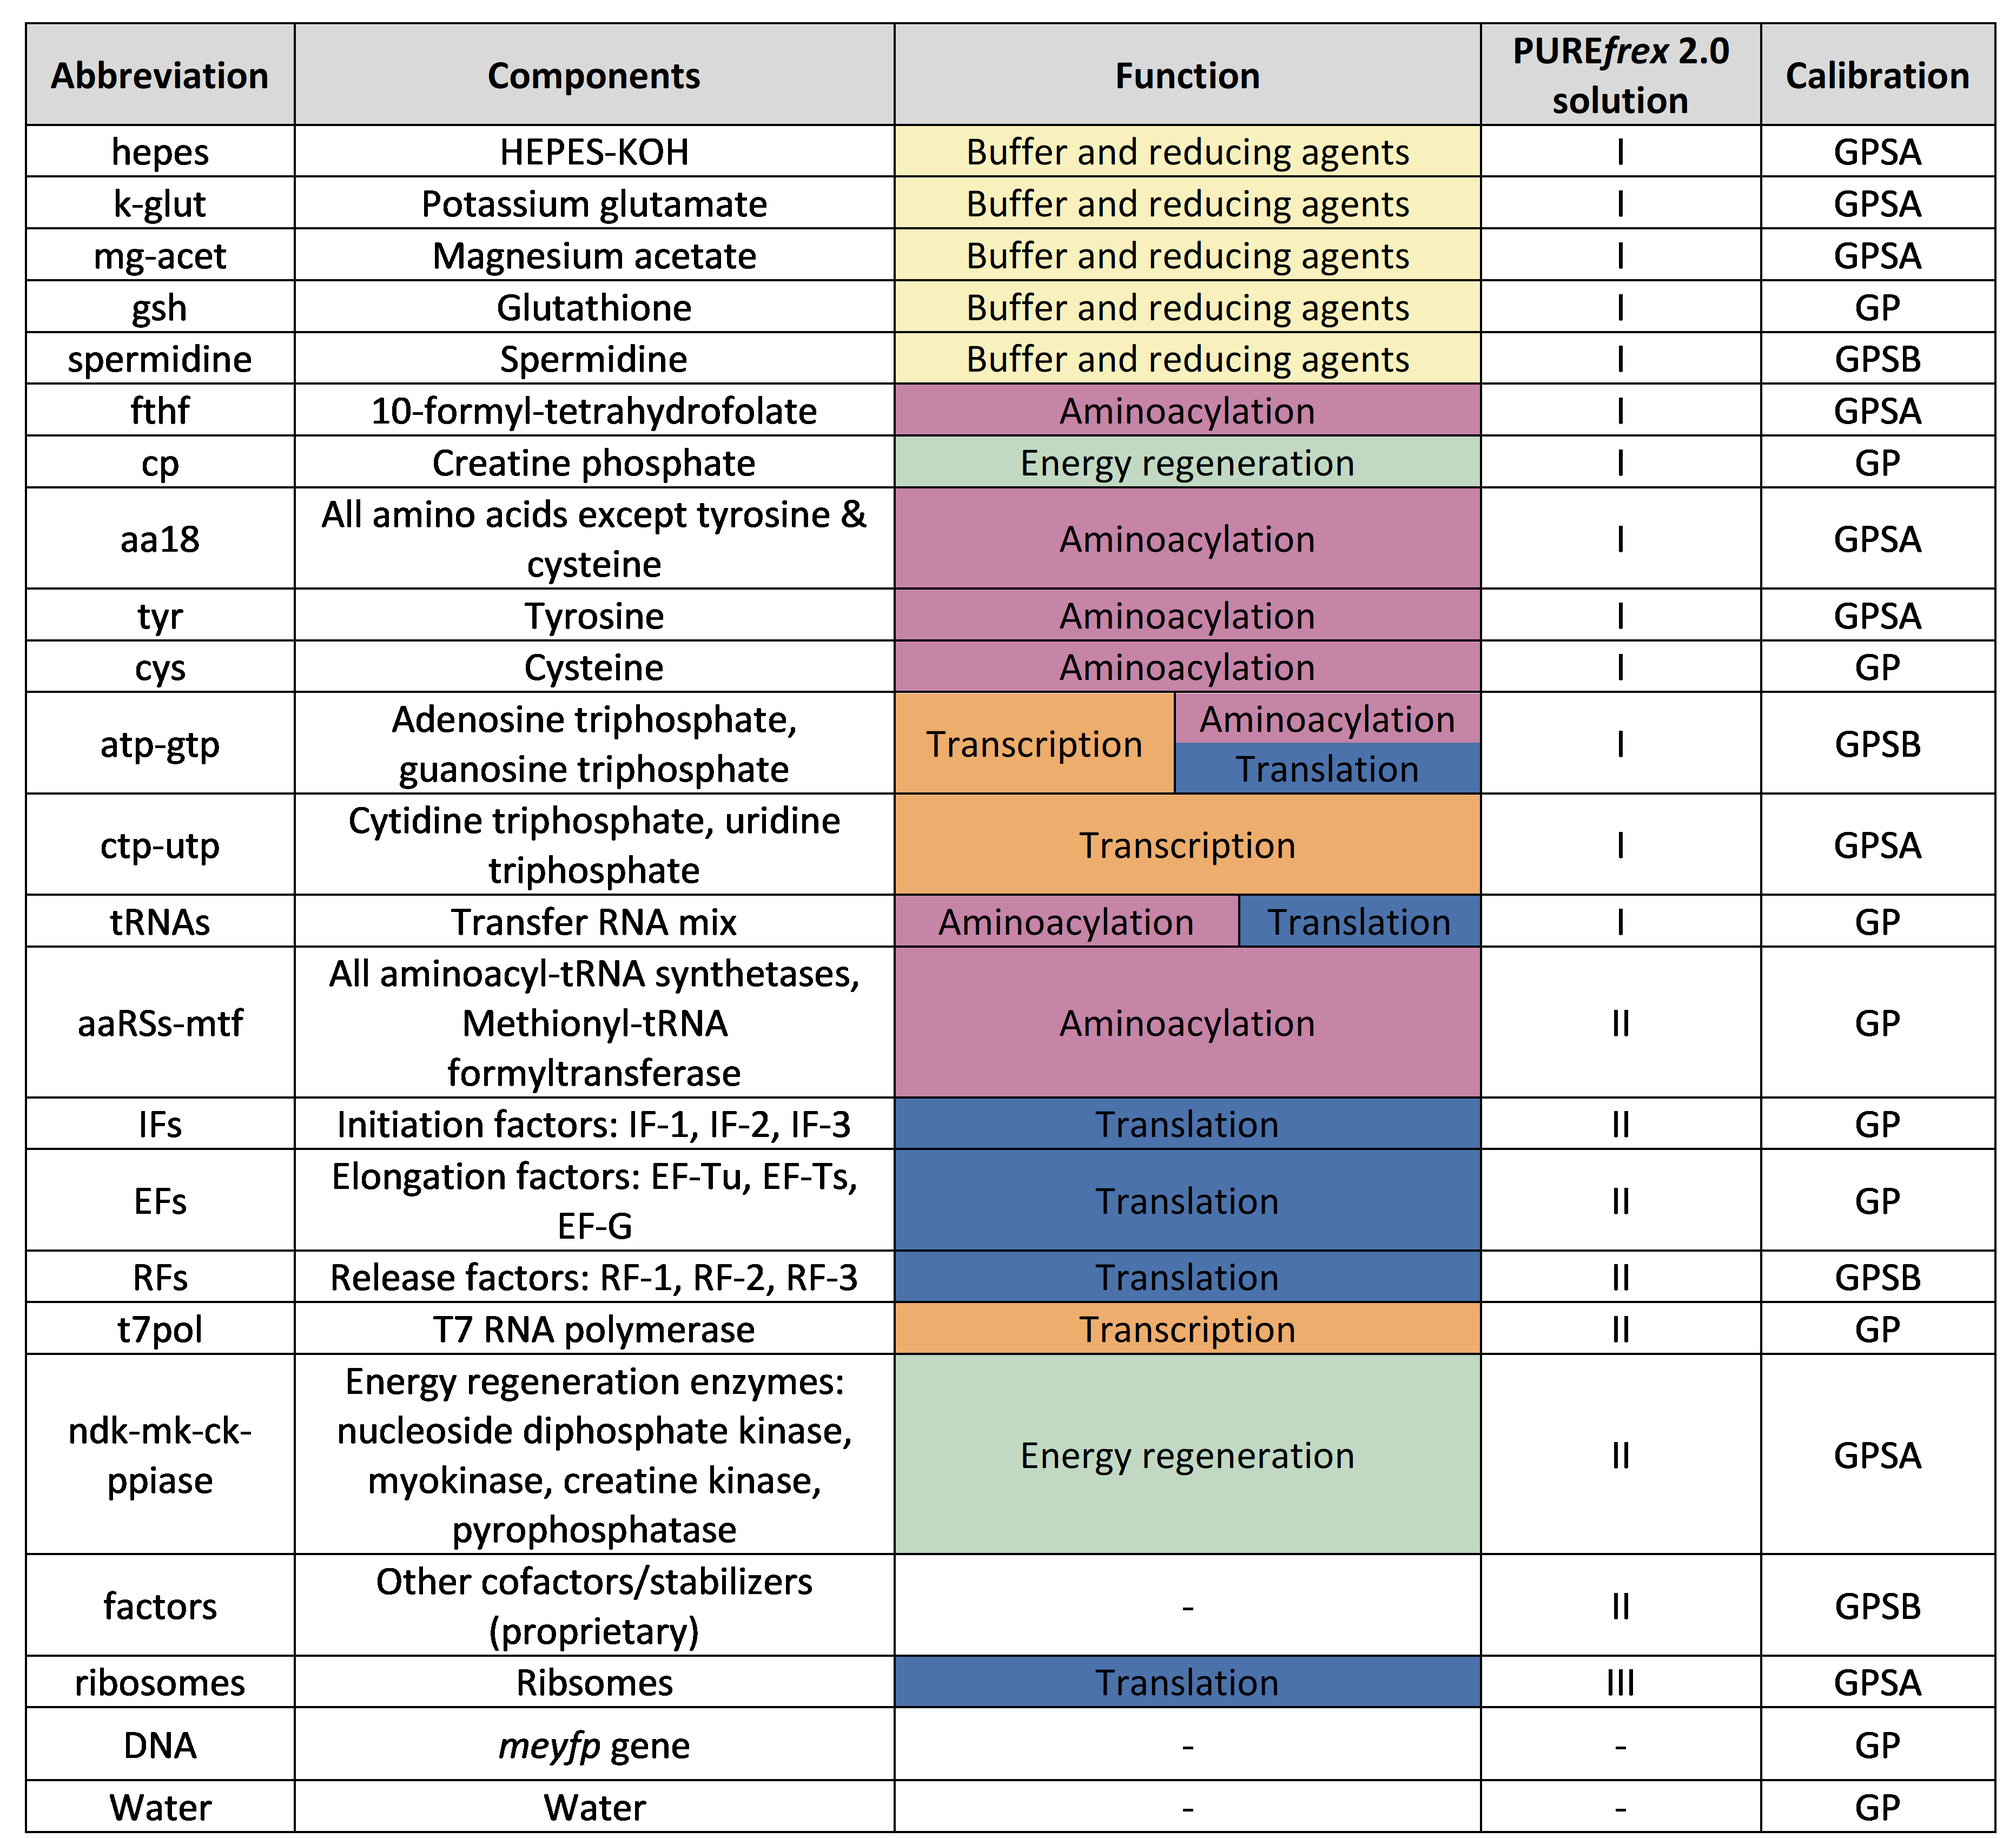
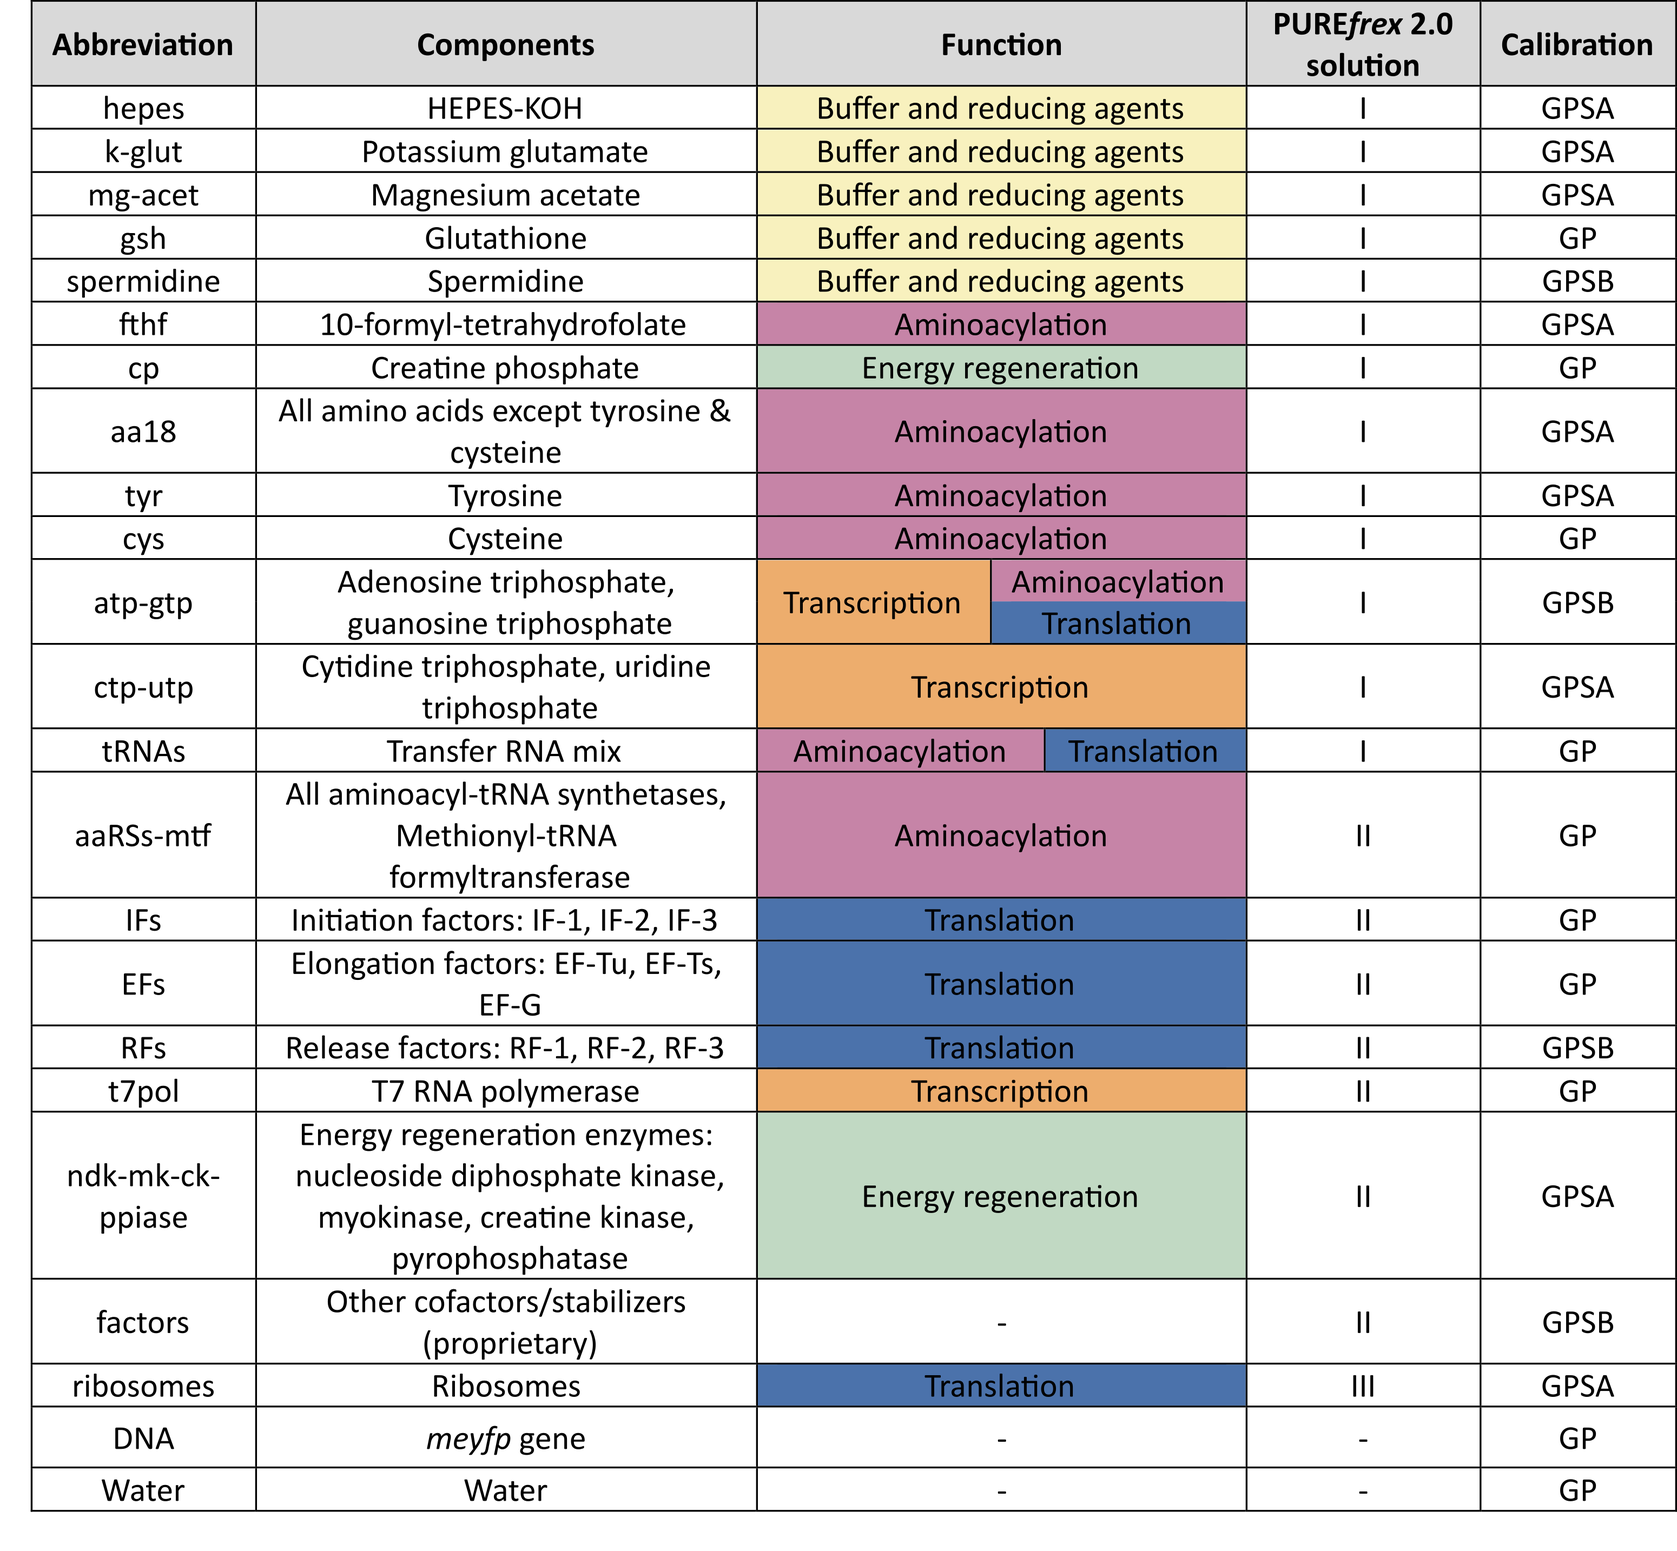
Add files via upload

diff --git a/active_learning/README.md b/active_learning/README.md
@@ -8,7 +8,7 @@ This folder contains the four Google Colab notebooks used to run the iterative P
 
 | Notebook | Template | DNA concentration | Rounds | Description |
 |---|---|---|---|---|
-| `PURE_Exploration_0_1nM_METIS_TBI.ipynb` | *meyfp* | 0.1 nM | 0–5 | First METIS campaign (Batch#1). Initial random exploration + 2 active learning rounds. |
+| `PURE_Exploration_0_1nM_METIS_TBI.ipynb` | *meyfp* | 0.1 nM | 0–5 | First METIS campaign: Batch#1 (rounds 0–2), Batch#2 (rounds 3, 3 bis, 4, 5). Initial random exploration + active learning rounds. |
 | `PURE_Exploration_2nM_TBI.ipynb` | *meyfp* | 2 nM | 6–8 | High-DNA campaign (Batch#2). Improved predictability, distinct limiting factors. |
 | `PURE_Exploration_MSG1_1.ipynb` | MSG1.1 (41 kb) | 0.1 nM & 1 nM | 1–5 | Multicistronic synthetic chromosome. Multi-objective optimization using harmonic mean of mVenus + mCherry. |
 | `PURE_Exploration_MSG1_1_C_change.ipynb` | MSG1.1 (41 kb) | 0.1 nM & 1 nM | 6–8 | Continuation of MSG1.1 campaign with **expanded concentration ranges** (rounds 6–8). Updated component grids allow exploration beyond the initial ×0.5–×2 window. |
@@ -40,6 +40,8 @@ drive.mount('/content/drive')
 5. **Visualization** — Boxplots, metabolite scatter plots, and feature importance figures.
 
 ### File naming convention
+
+Component columns use the manuscript Table 1 names, the same ones as the data in [`Supplementary Data/`](../Supplementary%20Data), so a `Results_X.csv` from there can be loaded without renaming.
 
 | File | Description |
 |---|---|

diff --git a/analysis/README.md b/analysis/README.md
@@ -98,4 +98,4 @@ COND1, 1.45, 0.18, 1, 2.0, 6.0, 1.0, 2.5, ...
 - `yield`: float, relative to REF (REF = 1.0)
 - `rate`: optional float (normalized translation rate)
 - `Day`: optional integer (experimental round)
-- All other columns: component concentrations (float, nM)
+- All other columns: component concentrations (float, vol %)
